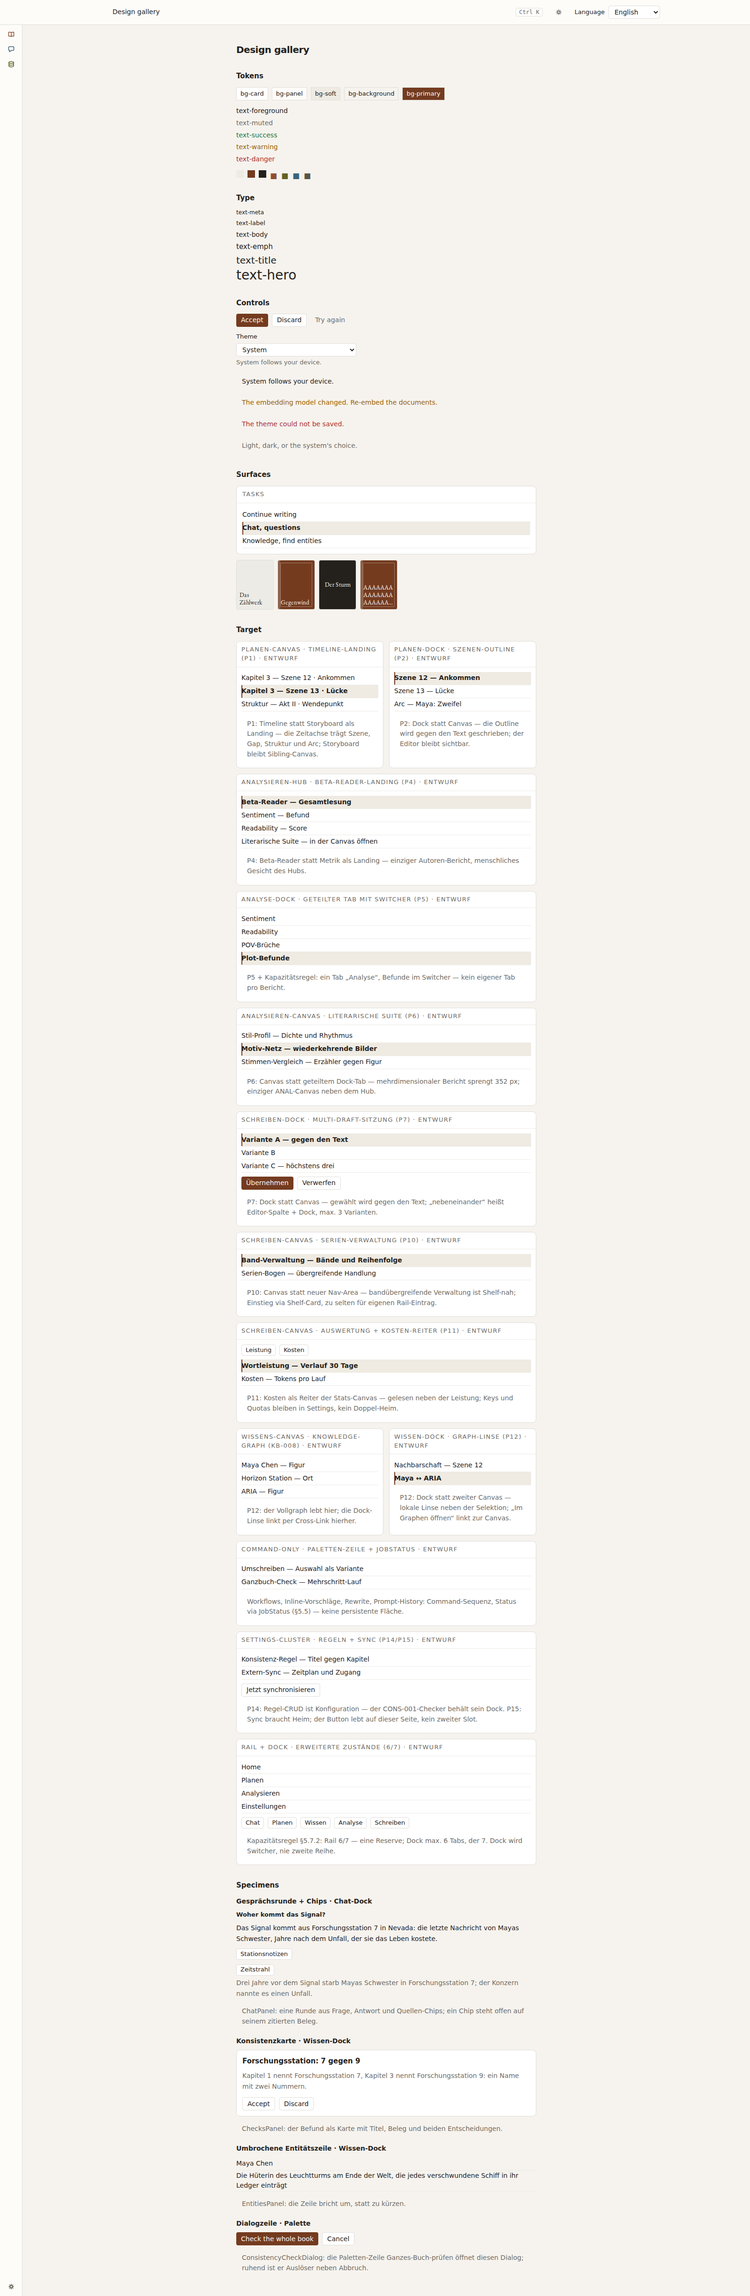
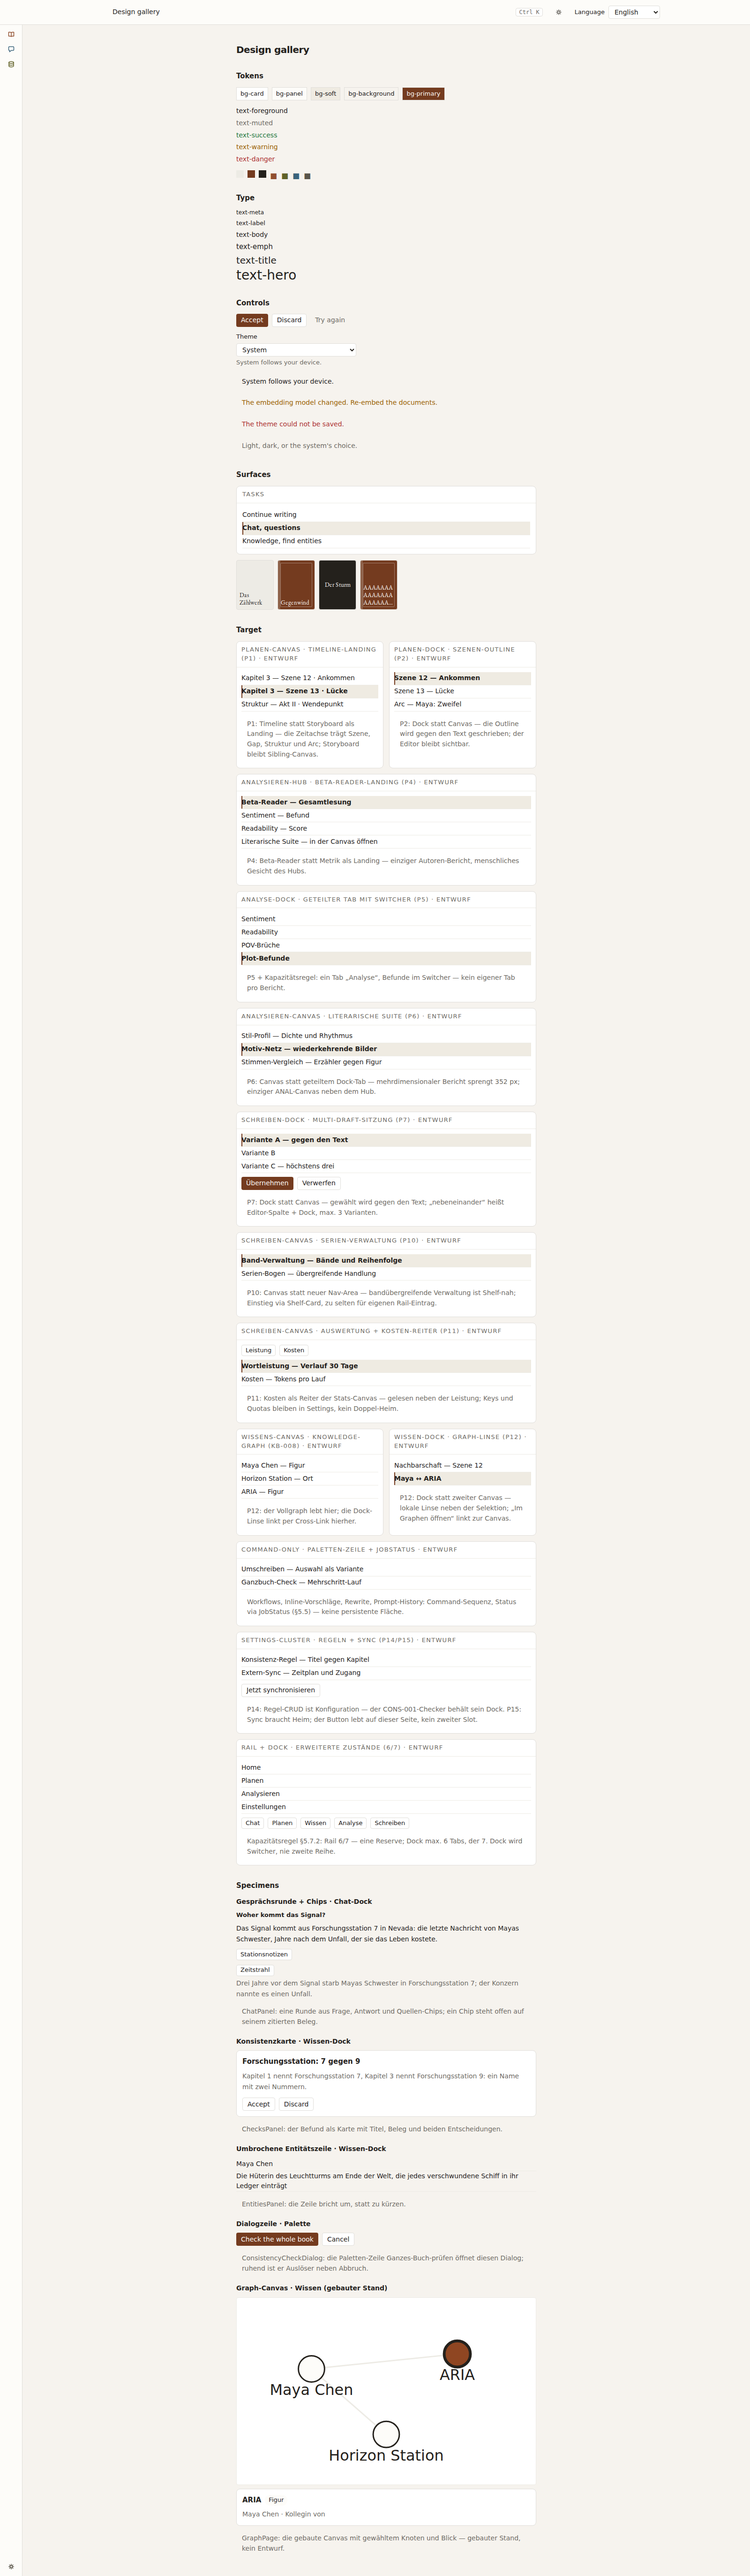
docs(screenshots): the graph canvas pinned in both themes
Gallery specimens grow the built graph canvas beside its Target draft; the graph re-shoots in light and dark with a selected node and its glance.

User-visible: the design gallery now shows the built knowledge-graph canvas next to its draft, and the canvas pins readable node labels in dark mode with no node clipped at the canvas edge.
Assisted-by: OpenCode (muse-spark-1.3-contributor)

Changed region(s): [[0.3125, 0.0, 0.7188, 1.0], [0.5312, 0.0312, 0.5938, 0.0625], [0.5938, 0.9062, 0.625, 0.9375]]

diff --git a/app/capabilities/settings/web/DesignGallery.tsx b/app/capabilities/settings/web/DesignGallery.tsx
@@ -606,6 +606,105 @@ export function DesignGallery() {
             </Notice>
           </div>
         </div>
+        <div className="mt-3">
+          <h3 className="text-body font-semibold">
+            Graph-Canvas · Wissen (gebauter Stand)
+          </h3>
+          {/* The canvas as GraphPage renders it, pinned small: the same
+              shapes — one SVG, nodes as circles with their names, edges as
+              lines, the selected node in the focus fill with its glance
+              below — positions fixed by hand, never computed, so no layout
+              logic is copied here. Inert: the nodes are plain groups, no
+              buttons, no selection, no link out; the glance is the dock
+              door's words without the door. The Target draft above keeps
+              its ENTWURF stamp as the fork record; this block never wears
+              it — gebauter Stand, not a draft. */}
+          <div className="mt-2">
+            <svg
+              role="group"
+              aria-label="Graph specimen"
+              viewBox="0 0 320 200"
+              className="h-auto w-full rounded-[var(--radius)] border border-rule bg-card"
+            >
+              <line x1={80} y1={76} x2={236} y2={60} stroke="var(--rule)" strokeWidth={1.5} />
+              <line x1={80} y1={76} x2={160} y2={146} stroke="var(--rule)" strokeWidth={1.5} />
+              <g>
+                <circle
+                  cx={80}
+                  cy={76}
+                  r={14}
+                  fill="var(--panel)"
+                  stroke="var(--foreground)"
+                  strokeWidth={1.5}
+                />
+                <text
+                  x={80}
+                  y={104}
+                  textAnchor="middle"
+                  aria-hidden="true"
+                  // Labels wear the foreground token like the canvas's own:
+                  // SVG text defaults to black, which dies on the dark card.
+                  fill="var(--foreground)"
+                >
+                  Maya Chen
+                </text>
+              </g>
+              <g>
+                <circle
+                  cx={236}
+                  cy={60}
+                  r={14}
+                  fill="var(--focus)"
+                  stroke="var(--foreground)"
+                  strokeWidth={3}
+                />
+                <text
+                  x={236}
+                  y={88}
+                  textAnchor="middle"
+                  aria-hidden="true"
+                  fill="var(--foreground)"
+                >
+                  ARIA
+                </text>
+              </g>
+              <g>
+                <circle
+                  cx={160}
+                  cy={146}
+                  r={14}
+                  fill="var(--panel)"
+                  stroke="var(--foreground)"
+                  strokeWidth={1.5}
+                />
+                <text
+                  x={160}
+                  y={174}
+                  textAnchor="middle"
+                  aria-hidden="true"
+                  fill="var(--foreground)"
+                >
+                  Horizon Station
+                </text>
+              </g>
+            </svg>
+          </div>
+          <div className="mt-2">
+            <Panel>
+              <div className="flex flex-wrap items-center gap-2">
+                <p className="text-emph font-semibold">ARIA</p>
+                <span className="rounded-full bg-panel px-2 py-0.5 text-label">Figur</span>
+              </div>
+              <p className="mt-2 text-body text-muted">Maya Chen · Kollegin von</p>
+            </Panel>
+          </div>
+          <div className="mt-2">
+            <Notice tone="quiet">
+              GraphPage: die gebaute Canvas mit gewähltem Knoten und
+              Blick — gebauter Stand, kein Entwurf.
+            </Notice>
+          </div>
+        </div>
       </section>
     </div>
   );

diff --git a/app/capabilities/knowledge/web/graphLayout.test.ts b/app/capabilities/knowledge/web/graphLayout.test.ts
@@ -40,11 +40,43 @@ describe("layoutGraph determinism", () => {
   it("keeps every node inside the viewport box", () => {
     const graph = layoutGraph(entities, relations, VIEW);
     expect(graph.nodes).toHaveLength(5);
+    // The shipped boundary is the rail margin, not the box edge: centers
+    // keep the drawn node plus its focus ring clear (see NODE_MARGIN).
     for (const node of graph.nodes) {
-      expect(node.x).toBeGreaterThanOrEqual(0);
-      expect(node.x).toBeLessThanOrEqual(VIEW.width);
-      expect(node.y).toBeGreaterThanOrEqual(0);
-      expect(node.y).toBeLessThanOrEqual(VIEW.height);
+      expect(node.x).toBeGreaterThanOrEqual(24);
+      expect(node.x).toBeLessThanOrEqual(VIEW.width - 24);
+      expect(node.y).toBeGreaterThanOrEqual(24);
+      expect(node.y).toBeLessThanOrEqual(VIEW.height - 24);
+    }
+  });
+
+  it("keeps node centers a full drawn radius off the rails", () => {
+    // The two-node, two-type canvas: the seeded jitter's first draw lands
+    // past the edge band's room, and the old [0, width] clamp left that
+    // center exactly on the rail — half the circle and its name clipped
+    // in the screenshots. Centers keep the shipped 24 px rail margin
+    // (r=18 circle + focus ring), pinned exactly, not just the radius.
+    const graph = layoutGraph(
+      [
+        { id: "e-mira", name: "Mira", type: "character" },
+        { id: "e-haus", name: "Haus", type: "location" },
+      ],
+      [
+        {
+          id: "r-1",
+          from_entity_id: "e-mira",
+          to_entity_id: "e-haus",
+          relation_type: "friend_of",
+        },
+      ],
+      VIEW,
+    );
+    expect(graph.nodes).toHaveLength(2);
+    for (const node of graph.nodes) {
+      expect(node.x).toBeGreaterThanOrEqual(24);
+      expect(node.x).toBeLessThanOrEqual(VIEW.width - 24);
+      expect(node.y).toBeGreaterThanOrEqual(24);
+      expect(node.y).toBeLessThanOrEqual(VIEW.height - 24);
     }
   });
 
@@ -90,10 +122,12 @@ describe("layoutGraph edge cases", () => {
     const [solo] = graph.nodes;
     expect(Number.isFinite(solo.x)).toBe(true);
     expect(Number.isFinite(solo.y)).toBe(true);
-    expect(solo.x).toBeGreaterThanOrEqual(0);
-    expect(solo.x).toBeLessThanOrEqual(VIEW.width);
-    expect(solo.y).toBeGreaterThanOrEqual(0);
-    expect(solo.y).toBeLessThanOrEqual(VIEW.height);
+    // A lone node owns the whole band: midpoint ±20 jitter, always far from
+    // any rail, so no margin applies — pin the centered behavior instead.
+    expect(solo.x).toBeGreaterThanOrEqual(380);
+    expect(solo.x).toBeLessThanOrEqual(420);
+    expect(solo.y).toBeGreaterThanOrEqual(280);
+    expect(solo.y).toBeLessThanOrEqual(320);
   });
 
   it("emits a self-loop edge with from equal to to when the node is present", () => {

diff --git a/app/capabilities/knowledge/web/graphLayout.ts b/app/capabilities/knowledge/web/graphLayout.ts
@@ -125,6 +125,18 @@ export function layoutGraph(
   const innerHeight = Math.max(1, height - padding * 2);
   const random = mulberry32(seed);
 
+  // The drawn node's own half-width on the canvas (the page's r=18
+  // circle) plus the keyboard's outline twin (2 px ring on a 2 px
+  // offset): centers keep this clear of every rail, so no circle and no
+  // ring ever clips — a center exactly on the rail reads as half a node.
+  // (Labels sit centered on their node; past this margin only a name
+  // wider than twice the margin still touches a rail — the canvas's own
+  // text, not the layout's promise.) Degenerate viewports narrower than
+  // two margins collapse the rails to the middle instead of inverting.
+  const NODE_MARGIN = 24;
+  const railX = Math.min(NODE_MARGIN, width / 2);
+  const railY = Math.min(NODE_MARGIN, height / 2);
+
   const nodes: GraphNode[] = [];
   types.forEach((type, band) => {
     const members = kept.filter((entity) => entity.type === type);
@@ -138,12 +150,12 @@ export function layoutGraph(
           ? padding + innerHeight / 2
           : padding + (innerHeight * row) / (members.length - 1);
       // The jitter stays inside half the cell margin: with one member the
-      // cell is the whole band, so clamp to a fixed ±10 box instead.
+      // cell is the whole band, so clamp to a fixed ±20 box instead.
       const spanX = types.length === 1 ? 20 : innerWidth / (types.length - 1) / 2 - 4;
       const spanY = members.length === 1 ? 20 : innerHeight / (members.length - 1) / 2 - 4;
       const clamp = (span: number): number => Math.max(0, Math.min(span, innerWidth / 2 - 1, innerHeight / 2 - 1));
-      const x = Math.min(Math.max(bandX + (random() - 0.5) * 2 * clamp(spanX), 0), width);
-      const y = Math.min(Math.max(rowY + (random() - 0.5) * 2 * clamp(spanY), 0), height);
+      const x = Math.min(Math.max(bandX + (random() - 0.5) * 2 * clamp(spanX), railX), width - railX);
+      const y = Math.min(Math.max(rowY + (random() - 0.5) * 2 * clamp(spanY), railY), height - railY);
       nodes.push({ id: entity.id, name: entity.name, type: entity.type, x, y });
     });
   });

diff --git a/app/capabilities/settings/web/DesignGallery.test.tsx b/app/capabilities/settings/web/DesignGallery.test.tsx
@@ -60,6 +60,26 @@ describe("DesignGallery", () => {
     expect(screen.getByRole("button", { name: "Check the whole book" })).toBeTruthy();
   });
 
+  it("pins the built graph-canvas specimen beside the Target draft", () => {
+    cleanup();
+    render(<DesignGallery />);
+    // The specimen's own heading names the built state — the Target draft
+    // above keeps the ENTWURF stamp as the fork record, the specimen never
+    // wears it.
+    const heading = screen.getByRole("heading", { name: /Graph-Canvas/ });
+    expect(heading.textContent).toMatch(/gebaut/);
+    const block = heading.parentElement as HTMLElement;
+    expect(block.textContent).not.toMatch(/ENTWURF/);
+    // The mini canvas: three named nodes, two drawn edges, one selected.
+    expect(block.textContent).toMatch(/Maya Chen/);
+    expect(block.textContent).toMatch(/Horizon Station/);
+    const canvas = block.querySelector("svg");
+    expect(canvas).not.toBeNull();
+    expect(canvas?.querySelectorAll("line")).toHaveLength(2);
+    // The selected node's glance: its type chip and the edge in words.
+    expect(block.textContent).toMatch(/Figur/);
+  });
+
   it("clamps a 120-character cover title", () => {
     const { container } = render(<DesignGallery />);
     const tile = container.querySelector('[data-cover-tone][data-long-title]');

diff --git a/app/capabilities/knowledge/web/GraphPage.tsx b/app/capabilities/knowledge/web/GraphPage.tsx
@@ -237,7 +237,16 @@ function NovelGraph({ novelId }: { novelId: string }) {
                 stroke="var(--foreground)"
                 strokeWidth={active ? 3 : 1.5}
               />
-              <text x={node.x} y={node.y + NODE_RADIUS + 14} textAnchor="middle" aria-hidden="true">
+              <text
+                x={node.x}
+                y={node.y + NODE_RADIUS + 14}
+                textAnchor="middle"
+                aria-hidden="true"
+                // The label's own ink: SVG text defaults to black, which
+                // reads on the light card but dies on the dark one — the
+                // token resolves in both, like the circle's own paint.
+                fill="var(--foreground)"
+              >
                 {node.name}
               </text>
             </g>

diff --git a/scripts/screenshots.py b/scripts/screenshots.py
@@ -27,6 +27,7 @@ from typing import TYPE_CHECKING
 import httpx
 from playwright.sync_api import FloatRect, expect, sync_playwright
 
+from app.kernel.testing.jobs import wait_for_job
 from app.kernel.testing.stack import API_PORT, WEB_PORT, run_stack
 from app.kernel.testing.vendor import chat_vendor
 
@@ -97,6 +98,8 @@ SHOTS = (
     "07-workspace-dark.png",
     "08-design.png",
     "09-design-dark.png",
+    "10-graph.png",
+    "11-graph-dark.png",
 )
 
 
@@ -213,6 +216,49 @@ def _route_model(api: httpx.Client, vendor: ChatVendor) -> None:
     ):
         assigned = api.put(f"/api/settings/assignments/{task}", json={"profile_id": profile_id})
         assigned.raise_for_status()
+
+
+def _seed_graph(api: httpx.Client) -> tuple[str, str, str]:
+    """A novel with two accepted entities joined by one edge, through the API.
+
+    The entities enter the world the only way they can — the extraction
+    job over a real chapter, and the review's accept — and the edge rides
+    the real relation create. Returns the novel's id and the two entity
+    names, the words the canvas must then show. Mirrors the knowledge E2E's
+    graph seed; the screenshots stack runs the same fake providers.
+    """
+    novel = api.post("/api/writing/novels", json={"title": "Die graphische Bucht"})
+    novel.raise_for_status()
+    novel_id = str(novel.json()["id"])
+    chapter = api.post(f"/api/writing/novels/{novel_id}/chapters", json={"title": "Ankunft"})
+    chapter.raise_for_status()
+    chapter_id = str(chapter.json()["id"])
+    saved = api.put(
+        f"/api/writing/chapters/{chapter_id}",
+        json={"body": "Mira betrat das alte Haus am See. Draußen schwieg der Leuchtturm."},
+    )
+    saved.raise_for_status()
+    enqueued = api.post(f"/api/knowledge/extraction/{novel_id}", json={"chapter_id": chapter_id})
+    enqueued.raise_for_status()
+    job = wait_for_job(api, enqueued.json()["job_id"])
+    assert job["status"] == "done", f"the extraction job ended {job['status']}"
+    suggestions = api.get(f"/api/knowledge/novels/{novel_id}/suggestions")
+    suggestions.raise_for_status()
+    assert len(suggestions.json()) >= 2
+    first = api.post(f"/api/knowledge/suggestions/{suggestions.json()[0]['id']}/accept")
+    first.raise_for_status()
+    second = api.post(f"/api/knowledge/suggestions/{suggestions.json()[1]['id']}/accept")
+    second.raise_for_status()
+    listed = api.get(f"/api/knowledge/novels/{novel_id}/entities")
+    listed.raise_for_status()
+    names = [str(row["name"]) for row in listed.json()]
+    assert len(names) == 2
+    edge = api.post(
+        f"/api/knowledge/entities/{listed.json()[0]['id']}/relations",
+        json={"to_entity_id": listed.json()[1]["id"], "relation_type": "friend_of"},
+    )
+    edge.raise_for_status()
+    return novel_id, names[0], names[1]
 
 
 def _capture(
@@ -377,6 +423,32 @@ def _capture(
     expect(page.get_by_role("heading", name="Design gallery")).to_be_visible()
     expect(page.locator("html")).to_have_attribute("data-theme", "dark")
     gallery_shot(SHOTS[8])
+
+    # 10. The graph canvas in the default light: the novel's entities as
+    #     named nodes, the one relation as the line between them, and the
+    #     selected node's glance below — the canvas owns the page, shot at
+    #     the shared viewport.
+    api.patch("/api/settings/theme", json={"theme": None})
+    graph_novel, first, second = _seed_graph(api)
+    page.goto(f"{WEB}/knowledge/graph?novel={graph_novel}")
+    expect(page.get_by_role("button", name=first)).to_be_visible()
+    expect(page.get_by_role("button", name=second)).to_be_visible()
+    expect(page.locator("svg line")).to_have_count(1)
+    page.get_by_role("button", name=first).click()
+    expect(page.get_by_role("region", name=first)).to_be_visible()
+    shot(SHOTS[9])
+
+    # 11. The same canvas in the reader's chosen dark, proven against a
+    #     light OS — the tokens resolve, the selection keeps its focus
+    #     fill, the glance stays readable.
+    api.patch("/api/settings/theme", json={"theme": "dark"})
+    page.goto(f"{WEB}/knowledge/graph?novel={graph_novel}")
+    expect(page.locator("html")).to_have_attribute("data-theme", "dark")
+    expect(page.get_by_role("button", name=first)).to_be_visible()
+    expect(page.locator("svg line")).to_have_count(1)
+    page.get_by_role("button", name=first).click()
+    expect(page.get_by_role("region", name=first)).to_be_visible()
+    shot(SHOTS[10])
 
     api.patch("/api/settings/theme", json={"theme": None})
     return written
